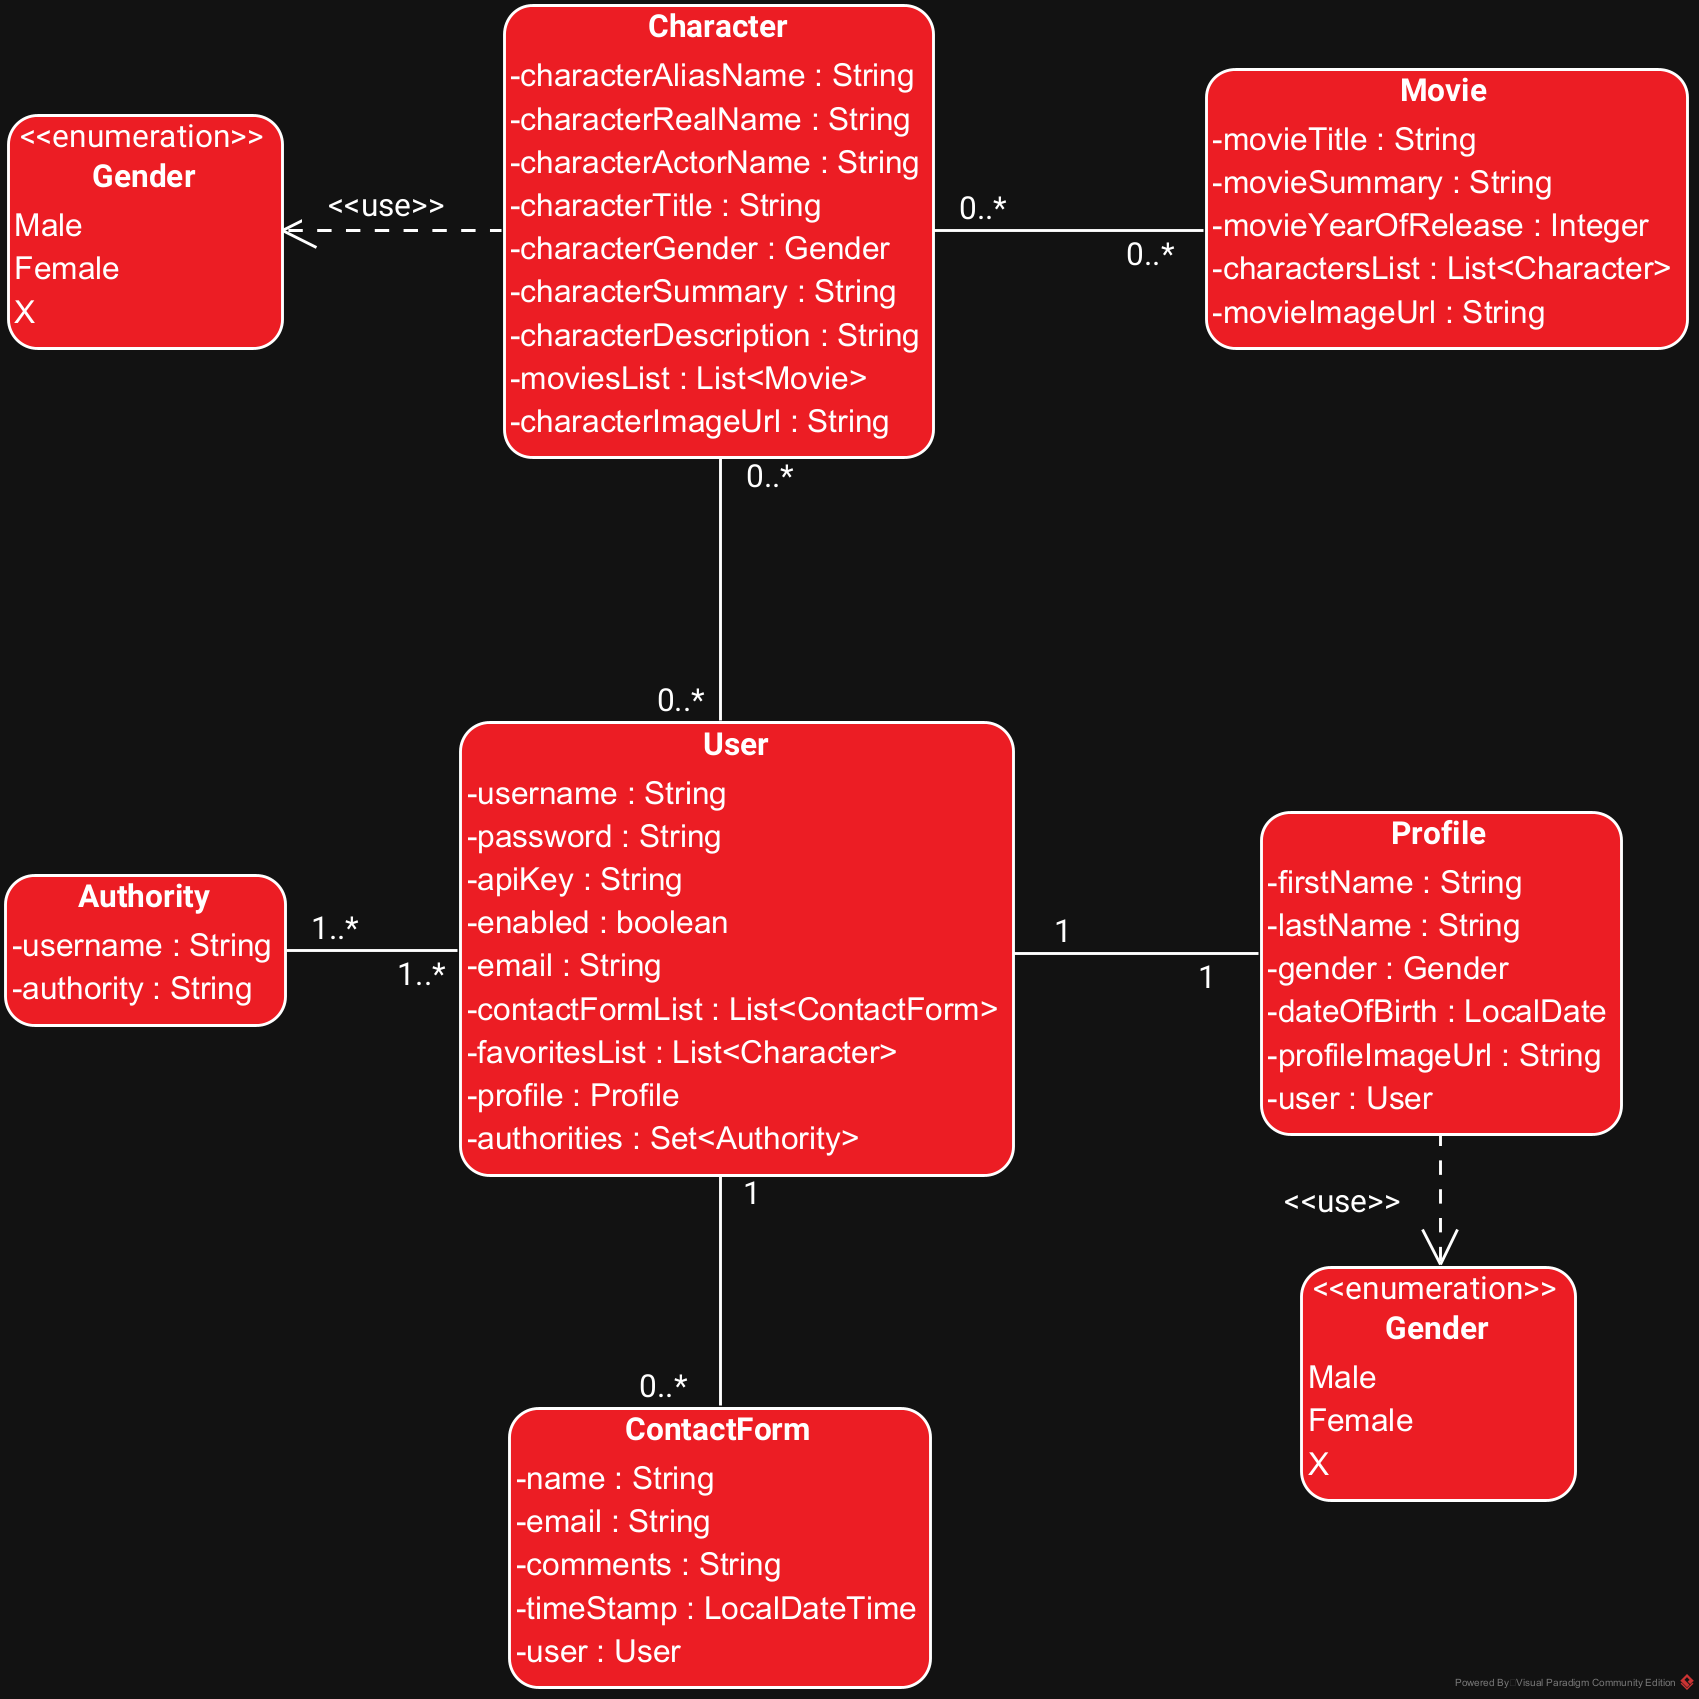
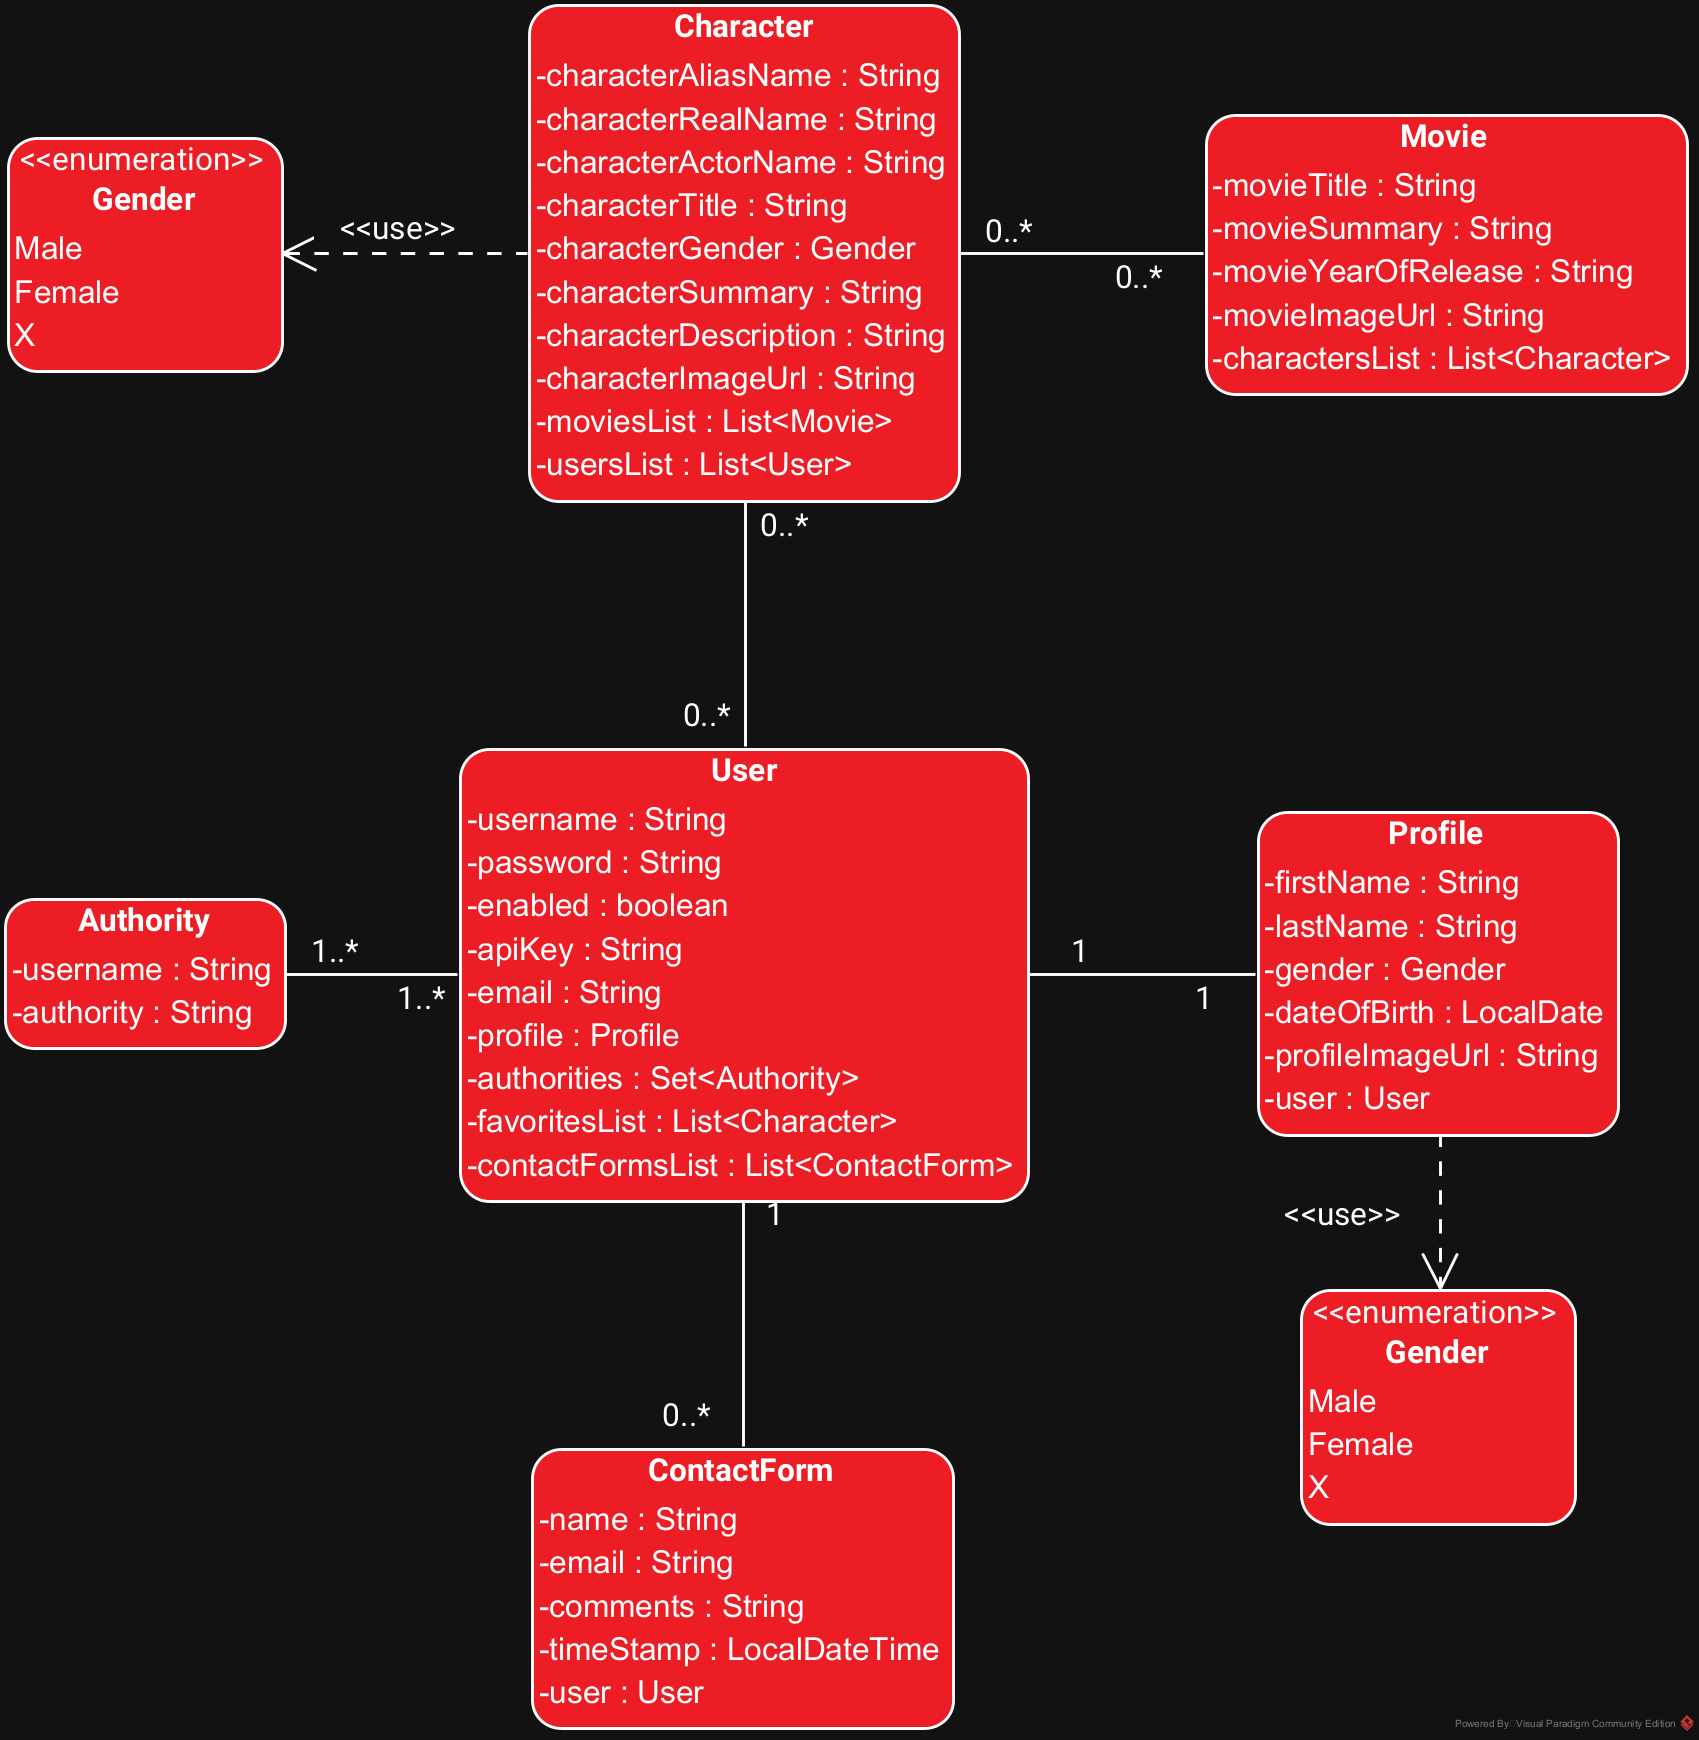
Some minor fixes and beta version of the class diagram

diff --git a/src/main/java/online/foundfave/foundfaveapi/services/UserService.java b/src/main/java/online/foundfave/foundfaveapi/services/UserService.java
@@ -203,7 +203,7 @@ public class UserService {
         userOutputDto.authorities = user.getAuthorities();
         userOutputDto.profile = user.getProfile();
         userOutputDto.favoritesList = user.getFavoritesList();
-        userOutputDto.contactFormList = user.getContactFormList();
+        userOutputDto.contactFormsList = user.getContactFormsList();
         return userOutputDto;
     }
 

diff --git a/src/main/java/online/foundfave/foundfaveapi/dtos/output/UserOutputDto.java b/src/main/java/online/foundfave/foundfaveapi/dtos/output/UserOutputDto.java
@@ -24,7 +24,7 @@ public class UserOutputDto {
     public String email;
     public Profile profile;
     public List<Character> favoritesList;
-    public List<ContactForm> contactFormList;
+    public List<ContactForm> contactFormsList;
 
     @JsonSerialize
     public Set<Authority> authorities;

diff --git a/src/main/java/online/foundfave/foundfaveapi/models/User.java b/src/main/java/online/foundfave/foundfaveapi/models/User.java
@@ -59,7 +59,7 @@ public class User {
 
     @OneToMany(mappedBy = "user")
     @JsonIgnore
-    private List<ContactForm> contactFormList;
+    private List<ContactForm> contactFormsList;
 
     // Authority
     public void addAuthority(Authority authority) {
